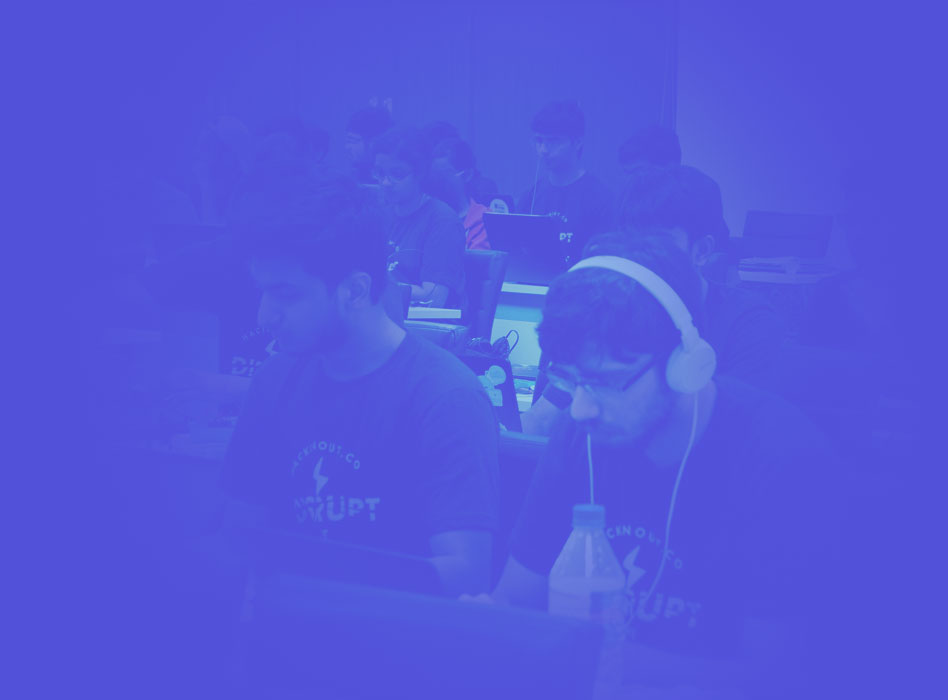
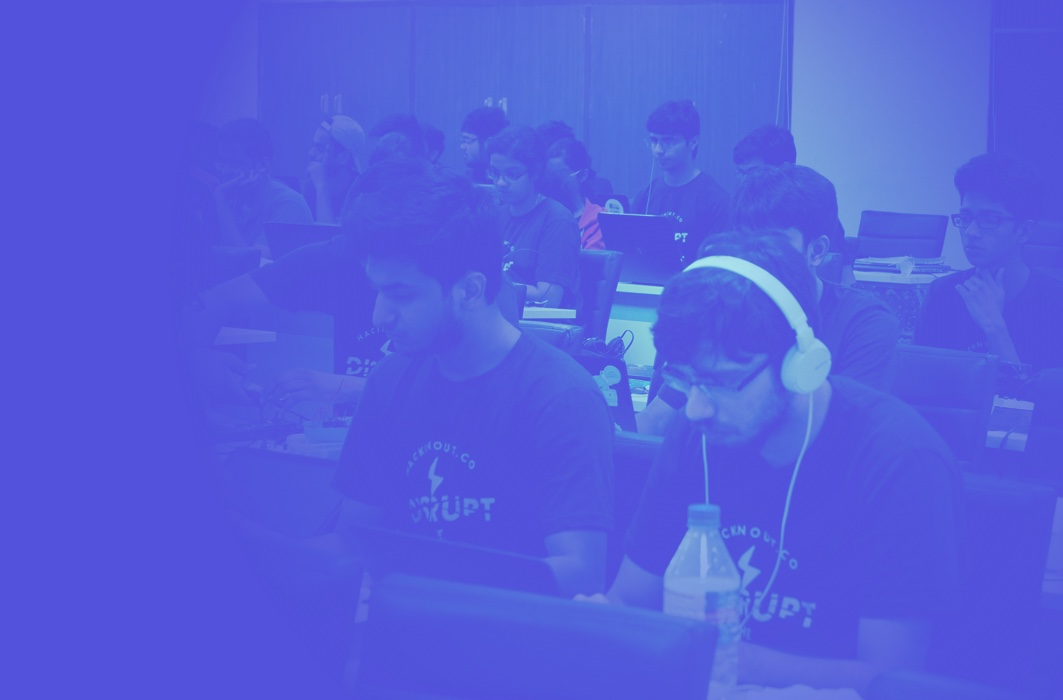
unused images removed, some png replaced eith jpg

diff --git a/source/sponsor/index.html b/source/sponsor/index.html
@@ -112,10 +112,10 @@
     <!--carousal-->
 
     <div class="owl-carousel">
-      <div><img src="../assets/img/about1.png" alt=""></div>
-      <div><img src="../assets/img/about2.png" alt=""></div>
-      <div><img src="../assets/img/about3.png" alt=""></div>
-      <div><img src="../assets/img/about4.png" alt=""></div>
+      <div><img src="../assets/img/about1.jpg" alt="Image for slider"></div>
+      <div><img src="../assets/img/about2.jpg" alt="Image for slider"></div>
+      <div><img src="../assets/img/about3.jpg" alt="Image for slider"></div>
+      <div><img src="../assets/img/about4.jpg" alt="Image for slider"></div>
     </div>
   </section>
   <!--about ends-->

diff --git a/source/css/sponsor.css b/source/css/sponsor.css
@@ -13,7 +13,7 @@
 
 .sponsor--header{
     /*background-position: right;*/
-    background-image: url(../assets/img/sponsor-header.png);
+    background-image: url(../assets/img/sponsor-header.jpg);
     background-position: 100% 0;
 }
 
